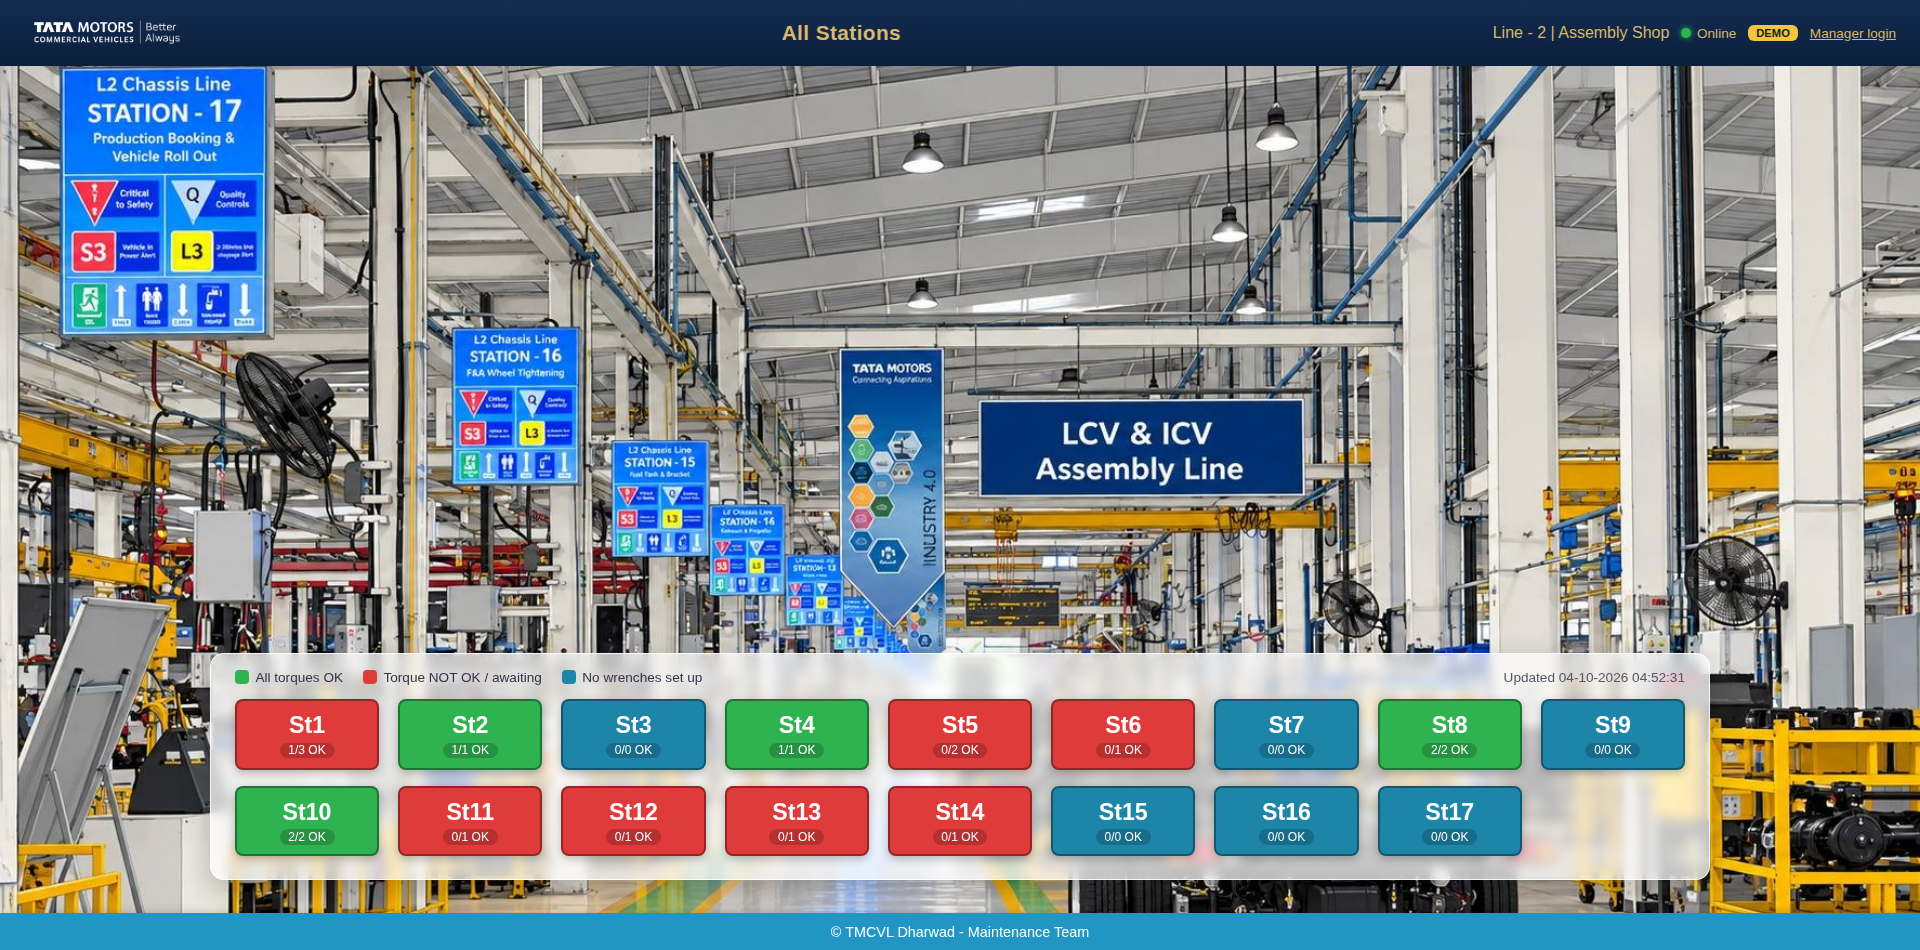
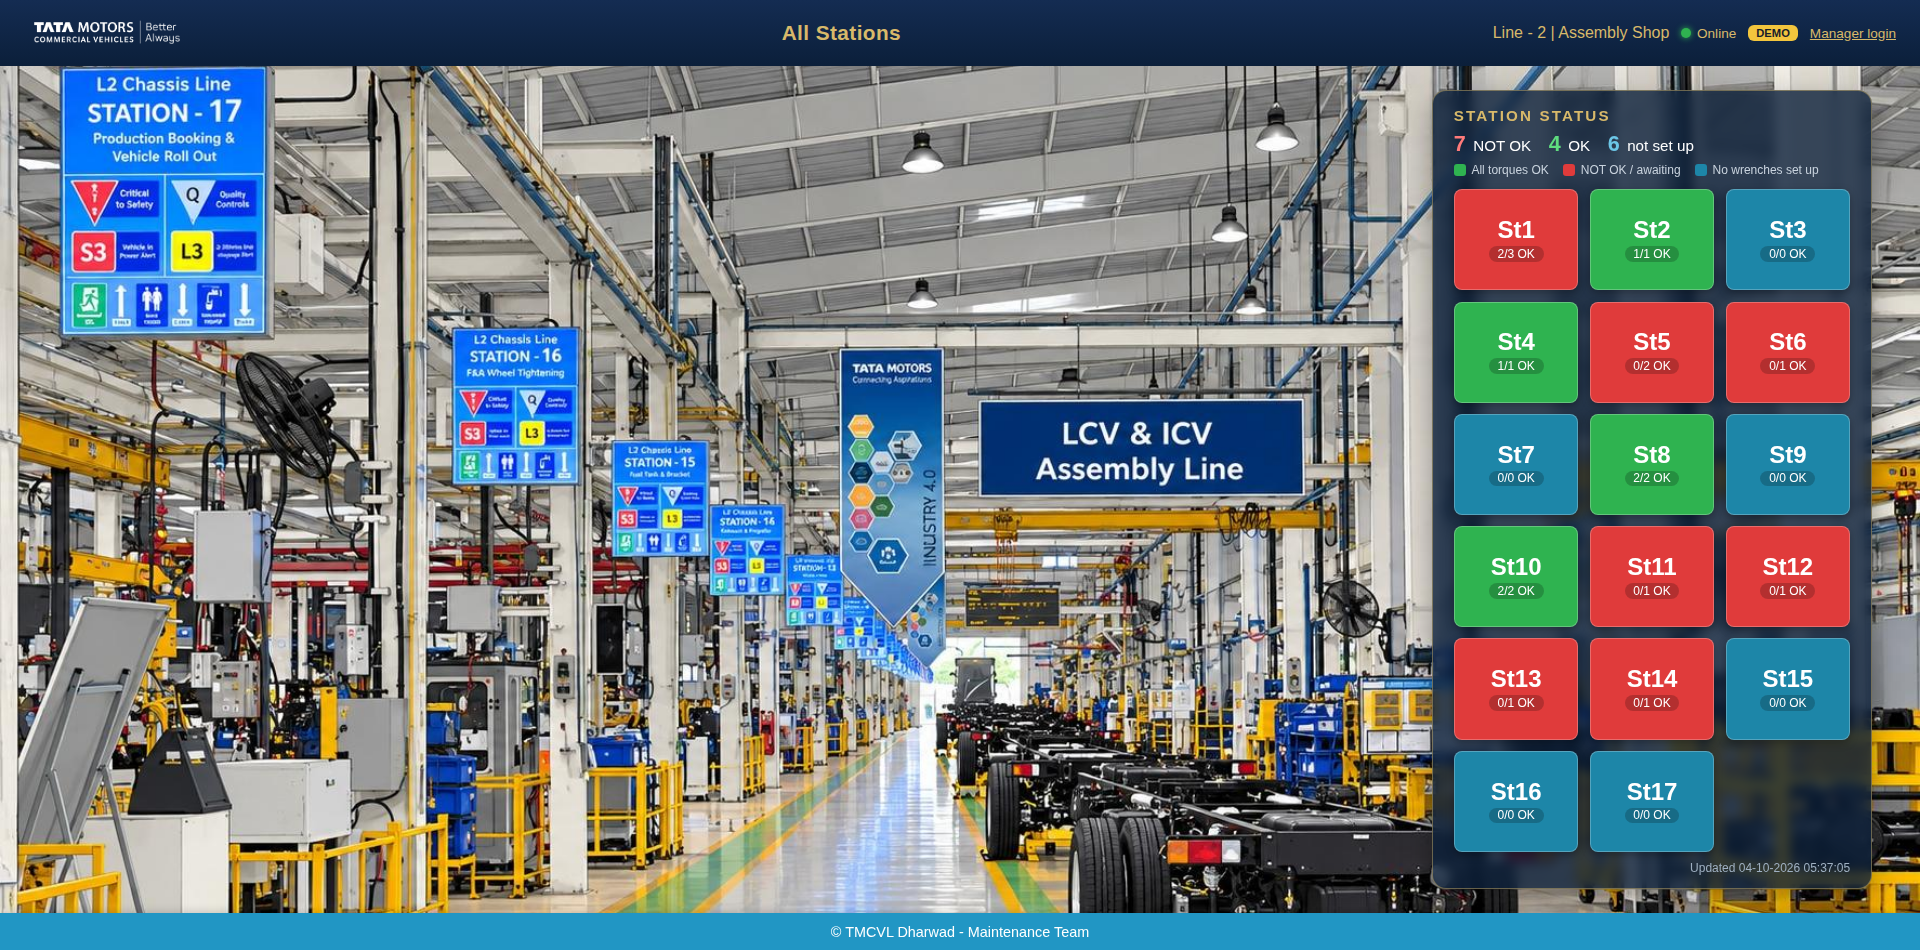
Home page: vertical station panel on the right
Dark navy panel (gold edge) under Manager login with St1-St17 in 3 columns
filling the height, a live summary (NOT OK / OK / not set up) and legend;
keeps the station signboards and line banner in the photo visible.

Claude-Session: https://claude.ai/code/session_01EfptZgT7xawZ3jC3VdCgor

diff --git a/line2_dashboard/static/style.css b/line2_dashboard/static/style.css
@@ -95,56 +95,72 @@ body {
 .home-button:hover, .nav-button:hover { transform: translateY(-1px); }
 .home-button:hover { background: var(--navy-light); }
 
-/* ---------- home page: line photo + frosted panel of station buttons ---------- */
+/* ---------- home page: line photo + station panel on the right ---------- */
 .content:has(.home-hero) { padding: 0; }
 .home-hero {
-  position: relative;
   height: calc(100vh - var(--topbar-h) - var(--footer-h));
   background-size: cover;
   background-position: center 30%;
   display: flex;
-  align-items: flex-end;
-  justify-content: center;
-  padding: 0 3% 3.5vh;
+  justify-content: flex-end;  /* panel on the right: keeps the station signboards on the left visible */
+  padding: 2.5vh 2.5%;
 }
 .home-panel {
-  width: 100%;
-  max-width: 1500px;
-  background: rgba(255, 255, 255, 0.72);
+  width: clamp(360px, 23vw, 460px);
+  display: flex;
+  flex-direction: column;
+  background: rgba(11, 31, 58, 0.8);
   backdrop-filter: blur(6px);
-  border: 1px solid rgba(255, 255, 255, 0.85);
+  border: 1px solid rgba(216, 185, 106, 0.45);
   border-radius: 14px;
-  box-shadow: 0 10px 30px rgba(0, 0, 0, 0.25);
-  padding: 1rem 1.5rem 1.4rem;
+  box-shadow: 0 10px 30px rgba(0, 0, 0, 0.35);
+  padding: 1rem 1.3rem 0.8rem;
+  color: #fff;
 }
-.home-panel-head { display: flex; align-items: center; gap: 1rem; margin-bottom: 0.9rem; }
-.home-legend { display: flex; gap: 1.25rem; font-size: 0.85rem; color: #334; }
-.home-legend span { display: inline-flex; align-items: center; gap: 0.4rem; }
-.swatch { width: 14px; height: 14px; border-radius: 4px; display: inline-block; }
-.updated { color: #556; font-size: 0.85rem; margin-left: auto; }
-.updated.center { text-align: center; }
+.home-panel-title {
+  color: var(--gold);
+  font-weight: 700;
+  font-size: 0.95rem;
+  letter-spacing: 0.14em;
+  text-transform: uppercase;
+}
+.home-summary { display: flex; gap: 1.1rem; margin: 0.45rem 0 0.35rem; font-size: 0.95rem; }
+.home-summary b { font-size: 1.35rem; margin-right: 0.2rem; }
+.sum-bad b { color: #ff7a7a; }
+.sum-ok b { color: #5fdc7f; }
+.sum-idle b { color: #6cc6e6; }
+.home-legend { display: flex; flex-wrap: wrap; gap: 0.3rem 0.9rem; font-size: 0.75rem; color: #c9d3de; margin-bottom: 0.8rem; }
+.home-legend span { display: inline-flex; align-items: center; gap: 0.35rem; }
+.swatch { width: 12px; height: 12px; border-radius: 3px; display: inline-block; }
+.updated { color: #9fb0c2; font-size: 0.75rem; }
+.home-panel .updated { margin-top: 0.6rem; text-align: right; }
+.updated.center { text-align: center; color: #667; }
 
+/* 3 columns; the 6 rows share the panel height so the buttons fill it */
 .station-grid {
+  flex: 1;
   display: grid;
-  grid-template-columns: repeat(9, 1fr);
-  gap: 1rem 1.2rem;
+  grid-template-columns: repeat(3, 1fr);
+  grid-auto-rows: 1fr;
+  gap: 0.7rem;
+  min-height: 0;
 }
 .station-tile {
   display: flex;
   flex-direction: column;
   align-items: center;
-  gap: 0.2rem;
-  padding: 0.7rem 0.4rem 0.6rem;
+  justify-content: center;
+  gap: 0.25rem;
   border-radius: 8px;
-  border: 2px solid rgba(0, 0, 0, 0.35);
+  border: 1px solid rgba(255, 255, 255, 0.25);
   text-decoration: none;
   color: #fff;
-  box-shadow: 0 3px 8px rgba(0, 0, 0, 0.25);
+  box-shadow: 0 3px 8px rgba(0, 0, 0, 0.3);
   transition: background-color 0.3s ease, transform 0.15s ease, box-shadow 0.15s ease;
 }
-.station-tile:hover { transform: translateY(-3px); box-shadow: 0 8px 18px rgba(0, 0, 0, 0.3); }
-.tile-name { font-size: 1.45rem; font-weight: 700; }
-.tile-count { font-size: 0.75rem; background: rgba(0, 0, 0, 0.18); padding: 0.05rem 0.55rem; border-radius: 10px; }
+.station-tile:hover { transform: translateY(-2px); box-shadow: 0 8px 18px rgba(0, 0, 0, 0.4); }
+.tile-name { font-size: 1.5rem; font-weight: 700; line-height: 1; }
+.tile-count { font-size: 0.75rem; background: rgba(0, 0, 0, 0.2); padding: 0.05rem 0.55rem; border-radius: 10px; }
 
 .tile-green { background: var(--green); }
 .tile-red { background: var(--red); }

diff --git a/line2_dashboard/templates/index.html b/line2_dashboard/templates/index.html
@@ -3,16 +3,19 @@
 {% block center_title %}All Stations{% endblock %}
 
 {% block content %}
-<!-- Home page: the line photo (static/Background.jpg) with a frosted panel of station buttons, as in the slide. -->
+<!-- Home page: the line photo (static/Background.jpg) with the station panel on the right. -->
 <section class="home-hero" style="background-image: url('{{ url_for('static', filename='Background.jpg') }}')">
-  <div class="home-panel">
-    <div class="home-panel-head">
-      <span class="home-legend">
-        <span><i class="swatch tile-green"></i>All torques OK</span>
-        <span><i class="swatch tile-red"></i>Torque NOT OK / awaiting</span>
-        <span><i class="swatch tile-idle"></i>No wrenches set up</span>
-      </span>
-      <span class="updated" id="updated-at">{{ 'Updated ' ~ updated_at if updated_at else '' }}</span>
+  <aside class="home-panel">
+    <div class="home-panel-title">Station Status</div>
+    <div class="home-summary" id="home-summary">
+      <span class="sum-bad"><b>{{ stations|selectattr('status', 'equalto', 'red')|list|length }}</b> NOT OK</span>
+      <span class="sum-ok"><b>{{ stations|selectattr('status', 'equalto', 'green')|list|length }}</b> OK</span>
+      <span class="sum-idle"><b>{{ stations|selectattr('status', 'equalto', 'idle')|list|length }}</b> not set up</span>
+    </div>
+    <div class="home-legend">
+      <span><i class="swatch tile-green"></i>All torques OK</span>
+      <span><i class="swatch tile-red"></i>NOT OK / awaiting</span>
+      <span><i class="swatch tile-idle"></i>No wrenches set up</span>
     </div>
     <div class="station-grid" id="station-grid">
       {% for st in stations %}
@@ -23,7 +26,8 @@
       </a>
       {% endfor %}
     </div>
-  </div>
+    <div class="updated" id="updated-at">{{ 'Updated ' ~ updated_at if updated_at else '' }}</div>
+  </aside>
 </section>
 {% endblock %}
 

diff --git a/line2_dashboard/static/overview.js b/line2_dashboard/static/overview.js
@@ -20,6 +20,13 @@
         el.classList.add("tile-" + st.status);
         el.querySelector(".tile-count").textContent = st.ok + "/" + st.total + " OK";
       });
+      const count = s => data.stations.filter(st => st.status === s).length;
+      const sum = document.getElementById("home-summary");
+      if (sum) {
+        sum.querySelector(".sum-bad b").textContent = count("red");
+        sum.querySelector(".sum-ok b").textContent = count("green");
+        sum.querySelector(".sum-idle b").textContent = count("idle");
+      }
       setConnection(data.db_ok, data.updated_at);
     } catch (err) {
       setConnection(false);
